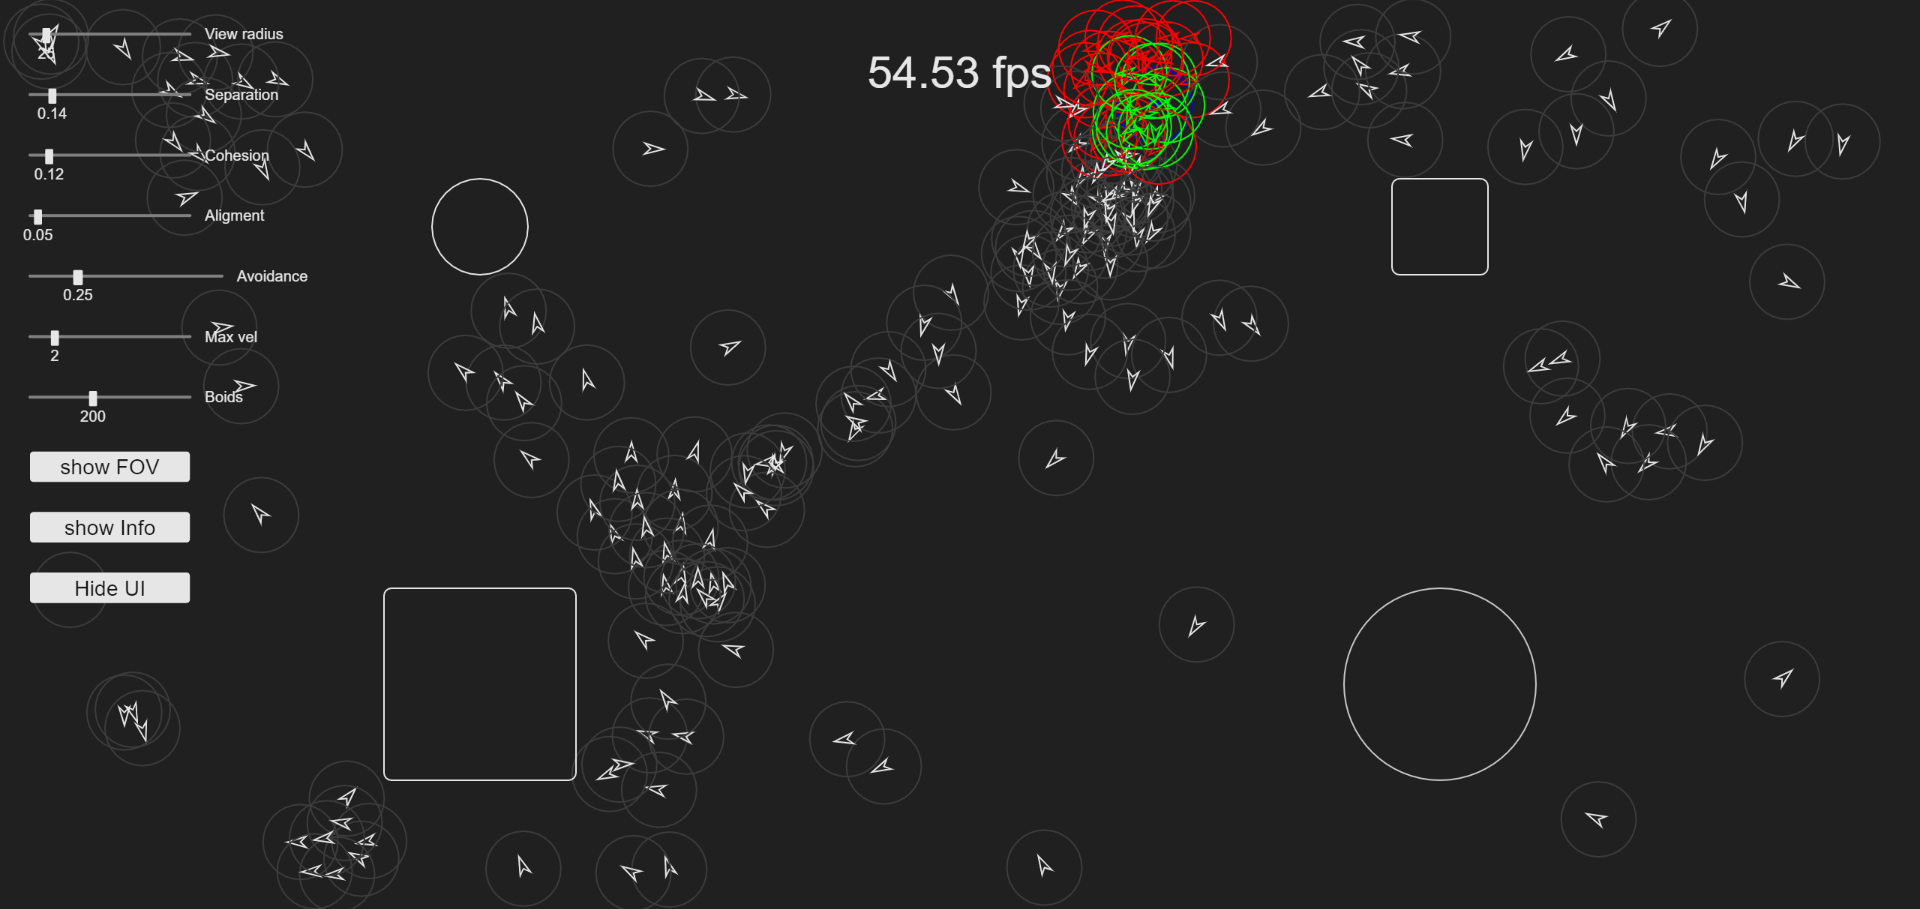
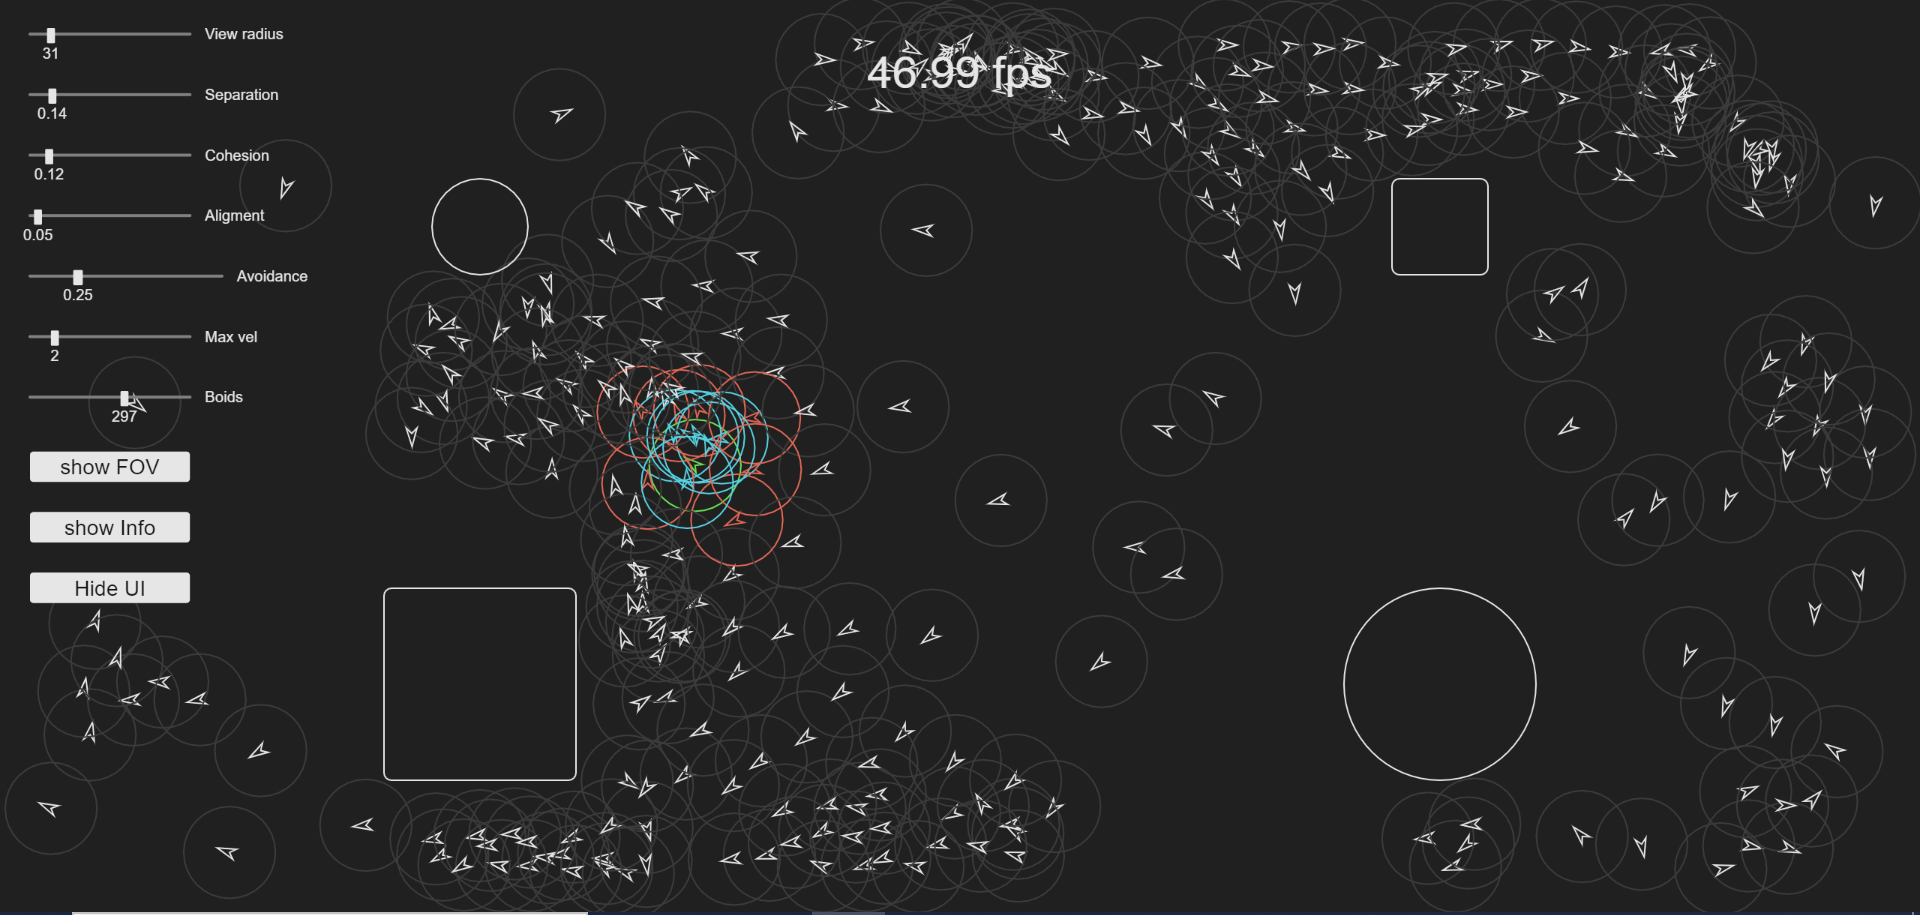
Changed colors

diff --git a/boid.js b/boid.js
@@ -19,10 +19,10 @@ class Boid {
      * Update this boid based on it's neighbour boids and the obstacles
      */
     update(neighbours, obstacles) {
-        if(this.showInfo) neighbours.forEach((n) => n.color = color(255, 0, 0));
+        if(this.showInfo) neighbours.forEach((n) => n.color = color(227, 103, 86));
         neighbours = neighbours.filter(n => n.pos != this.pos && n.pos.dist(this.pos) < this.sim.viewR);
-        if(this.showInfo) neighbours.forEach((n) => n.color = color(0, 255, 0));
-        if(this.showInfo) this.color = color(0,0,255);
+        if(this.showInfo) neighbours.forEach((n) => n.color = color(86, 210, 227));
+        if(this.showInfo) this.color = color(105, 227, 86);
         obstacles = obstacles.filter(o => o.nearestPt(this.pos).dist(this.pos) < this.sim.viewR);
 
         if(neighbours.length > 0) {
